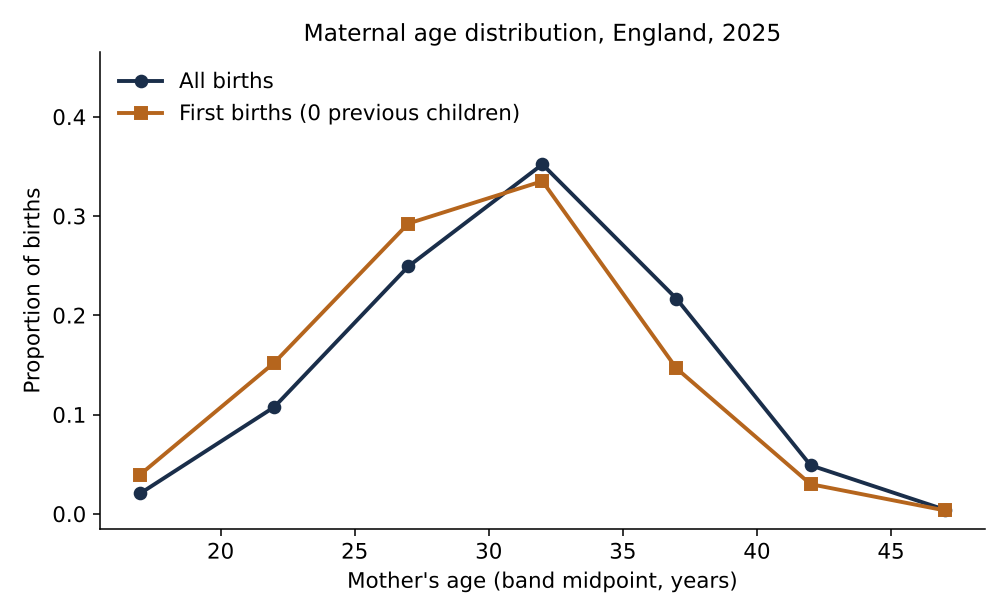
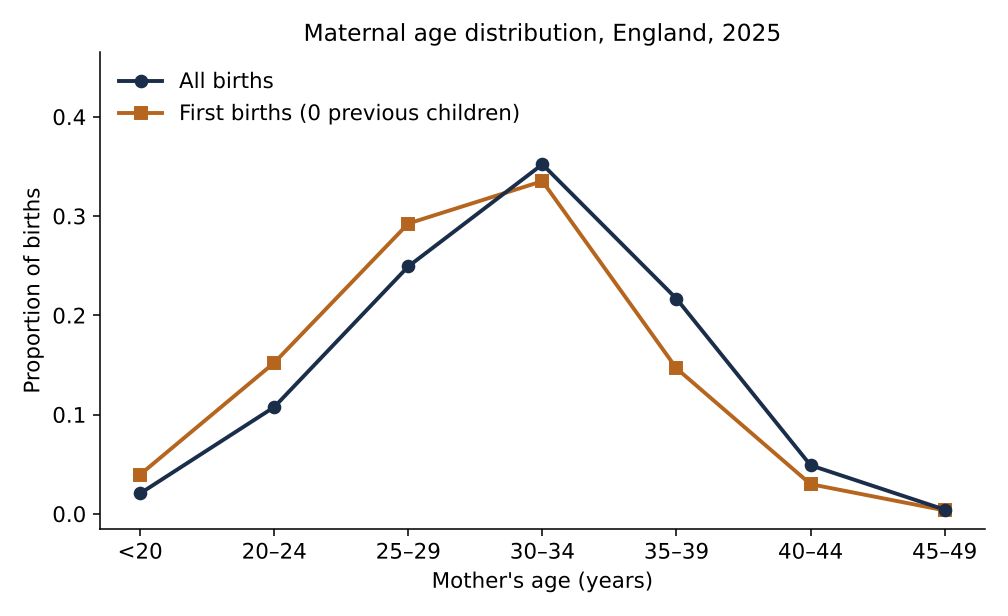
Figures: stacked panels, unknown stage, trough years, one colour key
Follow-up to an independent review of the redrawn figures:
- Figs 6, 8 (figF, figH): replace second y-axes with stacked panels; with
  two axes the apparent tracking (Fig 6) and crossing (Fig 8) depended only
  on how each axis was scaled.
- Fig 4 (figD): add the 1,366 endometrial cancers with stage missing or
  unstageable; panels share one y-axis.
- Fig 2 (figB): the published minimum (23.7) is shared by 1969-1971; mark all
  three years. results_all.csv now reports "First-birth SMA trough years".
- Fig 5 (figE): exact band midpoints (17.5 for 15-19); births curve starts at
  the under-20 band (no separate under-15 group); lower panel no longer clips
  markers at zero; coefficient shown as 0.048.
- Fig 3 (figA): label the age bands; all-births markers drawn on top.
- Figs 7, 9 (figG, figI): count axes start at zero.
- One colour key throughout: green = uterine cancer, navy = all births,
  orange = first births, grey = secondary or unknown.

Claude-Session: https://claude.ai/code/session_01PWS6UPa18NfWCPYvZGxfs7

diff --git a/convergence_analysis.py b/convergence_analysis.py
@@ -25,8 +25,9 @@
 # cancers diagnosed under 40). Adds annual-percentage-change (APC) trend estimates, an
 # under-40 series, a decomposition of the overlap coefficient, projected births at 40+, and a
 # C54-only sensitivity analysis. All figures are redrawn: no text over data, overlap shading
-# that covers the whole area under both curves, and the 2012–2014 gap in the rolling incidence
-# series shown rather than bridged. See CHANGELOG.md.
+# that covers the whole area under both curves, the 2012–2014 gap in the rolling incidence
+# series shown rather than bridged, stacked panels instead of second y-axes, the unknown-stage
+# group shown, and one colour key throughout. See CHANGELOG.md.
 
 # %%
 # ============================ CONFIG & IMPORTS ============================
@@ -266,7 +267,10 @@ results["England 2025 first-births % aged 30+"]     = round(100*p_first[['30 to 
 results["First-birth SMA 1975 (E&W)"]               = round(float(sma_first[t11ew["Year"]==1975].iloc[0]), 2)
 results["First-birth SMA 2025 (E&W)"]               = round(float(sma_first[t11ew["Year"]==2025].iloc[0]), 2)
 results["All-births SMA 2025 (E&W)"]                = round(float(sma_all[t11ew["Year"]==2025].iloc[0]), 2)
-results["First-birth SMA trough year (E&W)"]        = int(t11ew.loc[sma_first.idxmin(), "Year"])
+# The published SMA (one decimal place) reaches its minimum in more than one year, so report the run.
+_trough_years = t11ew.loc[np.isclose(sma_first, sma_first.min()), "Year"].astype(int)
+results["First-birth SMA trough years (E&W)"]       = (f"{_trough_years.min()}-{_trough_years.max()}"
+                                                      if len(_trough_years) > 1 else str(_trough_years.min()))
 results["First-birth SMA trough value (E&W)"]       = round(float(sma_first.min()), 2)
 results["First-birth SMA England vs E&W gap, 2025 (yrs)"] = round(gap, 3)
 
@@ -507,26 +511,36 @@ results["Projected overlap change 2023->2047 (cancer fixed, %)"] = round(100*(at
 # ## 7. Figures
 
 # %%
-# Fig A — maternal age distribution, England 2025
-from matplotlib.ticker import FuncFormatter
+# Colour key used in every figure: green = uterine cancer; navy = all births; orange = first
+# births; grey = a secondary series or a missing/unknown category. Two-quantity figures use stacked
+# panels rather than a second y-axis, so neither series' scale is chosen to match the other.
+from matplotlib.ticker import FuncFormatter, MultipleLocator
 from matplotlib.patches import Rectangle
+thousands = FuncFormatter(lambda v, _: f"{v:,.0f}")
+GREEN_U50, GREEN_U45, GREEN_U40 = "#7cbfac", ACC2, "#0f3d33"   # nested age limits, light to dark
+NAVY_LIGHT = "#7a8fae"
+
+# Fig A — maternal age distribution, England 2025, by five-year band of mother's age
 fig, ax = plt.subplots(figsize=(7.2,4.4))
-xr = [MIDHB[b] for b in REPRO_U50]
-ax.plot(xr, [p_all.get(b,0) for b in REPRO_U50], "-o", color=INK, lw=2, label="All births")
-ax.plot(xr, [p_first.get(b,0) for b in REPRO_U50], "-s", color=ACC, lw=2, label="First births (0 previous children)")
-ax.set_xlabel("Mother's age (band midpoint, years)"); ax.set_ylabel("Proportion of births")
+_pos = np.arange(len(REPRO_U50))
+_lf, = ax.plot(_pos, [p_first.get(b,0) for b in REPRO_U50], "-s", color=ACC, lw=2, label="First births (0 previous children)")
+_la, = ax.plot(_pos, [p_all.get(b,0) for b in REPRO_U50], "-o", color=INK, lw=2, label="All births")  # on top: equal at 45–49
+ax.set_xticks(_pos, ["<20" if b == "15 to 19" else b.replace(" to ", "–") for b in REPRO_U50])
+ax.set_xlabel("Mother's age (years)"); ax.set_ylabel("Proportion of births")
 ax.set_ylim(bottom=-0.015, top=1.32*max(max(p_all.get(b,0) for b in REPRO_U50), max(p_first.get(b,0) for b in REPRO_U50)))  # legend headroom
-ax.set_title("Maternal age distribution, England, 2025"); ax.legend(frameon=False, loc="upper left")
+ax.set_title("Maternal age distribution, England, 2025"); ax.legend([_la, _lf], [_la.get_label(), _lf.get_label()], frameon=False, loc="upper left")
 fig.tight_layout(); fig.savefig(OUT_DIR/"figA_maternal_age_distribution_2025.png"); plt.close(fig)
 
-# Fig B — first-birth SMA trend (E&W); the trough label sits below the point, clear of the curve and axis
+# Fig B — first-birth SMA trend (E&W). The published series is rounded to 0.1 year and its
+# minimum is shared by consecutive years; all are marked and the label gives the run of years.
 fig, ax = plt.subplots(figsize=(7.2,4.4))
 ax.plot(t11ew["Year"], sma_first, color=ACC, lw=2, label="Mean age at first birth")
-ax.plot(t11ew["Year"], sma_all, color=GREY, lw=1.5, ls="--", label="Mean age, all births")
-ty=int(t11ew.loc[sma_first.idxmin(),"Year"]); tv=float(sma_first.min())
-ax.scatter([ty],[tv], color=INK, zorder=5)
-ax.set_ylim(bottom=tv - 1.1)
-ax.annotate(f"trough {ty}: {tv:.1f} years", (ty, tv), textcoords="offset points", xytext=(0, -9),
+ax.plot(t11ew["Year"], sma_all, color=INK, lw=1.5, ls="--", label="Mean age, all births")
+_tv = float(sma_first.min()); _ty = t11ew.loc[np.isclose(sma_first, _tv), "Year"].astype(int).tolist()
+ax.scatter(_ty, [_tv]*len(_ty), color=INK, s=14, zorder=5)
+ax.set_ylim(bottom=_tv - 1.1)
+_run = f"{_ty[0]}–{str(_ty[-1])[2:]}" if len(_ty) > 1 else f"{_ty[0]}"
+ax.annotate(f"trough {_run}: {_tv:.1f} years", (float(np.mean(_ty)), _tv), textcoords="offset points", xytext=(0, -9),
             ha="center", va="top", fontsize=9, color=INK)
 ax.set_xlabel("Year"); ax.set_ylabel("Standardised mean age of mother (years)")
 ax.set_title("Mean age at first birth, England & Wales, 1938–2025"); ax.legend(frameon=False, loc="upper left")
@@ -547,83 +561,85 @@ ax.set_xlabel("Year (midpoint of 3-year rolling window)"); ax.set_ylabel("Age-st
 ax.set_title("Uterine cancer (C54–C55) incidence, England, 2001–2023\n(3-year rolling rates)")
 fig.tight_layout(); fig.savefig(OUT_DIR/"figC_uterine_incidence_trend.png"); plt.close(fig)
 
-# Fig D — endometrial composition + stage
-fig, (a1,a2) = plt.subplots(1,2, figsize=(9,4.2))
-a1.bar(["Endometrial","Non-endometrial"], [endo,nonendo], color=[INK,GREY])
+# Fig D — endometrial composition + stage. Shared y-axis, so the stage bars (including the cases
+# with stage missing or unstageable) add up to the endometrial bar.
+_stage_unknown = endo - sum(endo_stage.values())
+assert int(_stage_unknown) == results["2023 endometrial stage missing/unstageable"]
+fig, (a1,a2) = plt.subplots(1,2, figsize=(9,4.2), sharey=True)
+a1.bar(["Endometrial","Non-endometrial"], [endo,nonendo], color=[ACC2,GREY])
 a1.set_title(f"Uterine cancer (C54–C55) by NDRS group, 2023\n(endometrial = {100*endo/all_u:.0f}% of {int(all_u):,})")
-a1.set_ylabel("Registrations"); a1.yaxis.set_major_formatter(FuncFormatter(lambda v, _: f"{v:,.0f}"))
-a2.bar(["1","2","3","4"], [endo_stage[s] for s in ["1","2","3","4"]], color=ACC)
-a2.set_title("Endometrial cancer by stage, 2023"); a2.set_xlabel("Stage at diagnosis (TNM 8 / FIGO 2009)"); a2.set_ylabel("Registrations")
-a2.yaxis.set_major_formatter(FuncFormatter(lambda v, _: f"{v:,.0f}"))
+a1.set_xlabel("NDRS group"); a1.set_ylabel("Registrations"); a1.yaxis.set_major_formatter(thousands)
+a2.bar(["1","2","3","4","Unknown"], [endo_stage[s] for s in ["1","2","3","4"]] + [_stage_unknown], color=[ACC2]*4 + [GREY])
+a2.set_title("Endometrial cancer by stage, 2023"); a2.set_xlabel("Stage at diagnosis (TNM 8 / FIGO 2009)")
 fig.tight_layout(); fig.savefig(OUT_DIR/"figD_endometrial_type_stage_2023.png"); plt.close(fig)
 
-# Fig E — headline overlap. The shaded area is the region under BOTH plotted curves, i.e. the
-# minimum of the two piecewise-linear curves evaluated on a fine grid (including the points where
-# they cross between band midpoints). The coefficient itself is computed on the five-year bands.
+# Fig E — headline overlap. Each curve joins the band proportions at the exact band midpoints
+# (ages are in completed years, so 15–19 is plotted at 17.5). The births series starts at 15–19,
+# which holds ONS "Under 20" (there is no separate under-15 group). The shaded area is the region
+# under BOTH curves: the minimum of the two piecewise-linear curves on a fine grid, including where
+# they cross between midpoints. The coefficient itself is computed on the five-year bands.
 # Lower panel: ages 20–55 enlarged, where the two distributions meet.
-fig, (ax, axz) = plt.subplots(2, 1, figsize=(8, 6.6), gridspec_kw={"height_ratios": [1.6, 1]})
-_x = np.array([MIDHB[b] for b in HB], float)
-_yc = np.array([pc_2023.get(b,0) for b in HB], float); _yb = np.array([p_first.get(b,0) for b in HB], float)
-_xd = np.linspace(_x.min(), _x.max(), 4001)
-_shared = np.minimum(np.interp(_xd, _x, _yc), np.interp(_xd, _x, _yb))
+fig, (ax, axz) = plt.subplots(2, 1, figsize=(8, 7.2), gridspec_kw={"height_ratios": [1.6, 1]})
+_xc = np.array([MIDHB[b] for b in HB], float) + 0.5
+_yc = np.array([pc_2023.get(b,0) for b in HB], float)
+_xb = np.array([MIDHB[b] for b in HB[1:]], float) + 0.5
+_yb = np.array([p_first.get(b,0) for b in HB[1:]], float)
+_xd = np.linspace(_xc.min(), _xc.max(), 4001)
+_shared = np.minimum(np.interp(_xd, _xc, _yc), np.interp(_xd, _xb, _yb, left=0.0, right=0.0))
 for a in (ax, axz):
-    a.fill_between(_xd, _shared, color=INK, alpha=0.35, lw=0, label=f"Overlap (coefficient = {OVL(pc_2023,p_first):.2f})")
-    a.plot(_x, _yc, "-o", color=ACC2, lw=2, label="Uterine cancer (C54–C55), age at diagnosis (England 2023)")
-    a.plot(_x, _yb, "-s", color=ACC, lw=2, label="First births, mother's age (England 2025)")
-ax.set_xlim(10, 95); ax.set_ylabel("Proportion within distribution")
-ax.add_patch(Rectangle((20, 0), 35, 0.05, fill=False, ls=":", lw=1, ec="#666"))
+    a.fill_between(_xd, _shared, color=INK, alpha=0.35, lw=0, label=f"Shared area (overlap coefficient = {OVL(pc_2023,p_first):.3f})")
+    a.plot(_xc, _yc, "-o", color=ACC2, lw=2, label="Uterine cancer (C54–C55), age at diagnosis (England 2023)")
+    a.plot(_xb, _yb, "-s", color=ACC, lw=2, label="First births, mother's age (England 2025)")
+    a.set_xlabel("Age (years)"); a.set_ylabel("Proportion within distribution"); a.tick_params(axis="y", pad=5)
+_zoom = (20, 55, -0.002, 0.05)                                   # x0, x1, y0, y1 of the lower panel
+ax.set_xlim(10, 95)
+ax.add_patch(Rectangle((_zoom[0], _zoom[2]), _zoom[1] - _zoom[0], _zoom[3] - _zoom[2], fill=False, ls=":", lw=1, ec="#666"))
 ax.set_title("Convergence of childbearing age and uterine cancer diagnosis age, England")
 _h, _l = ax.get_legend_handles_labels()
-ax.legend([_h[1], _h[2], _h[0]], [_l[1], _l[2], _l[0]], frameon=False, fontsize=8.5, loc="upper right")
-axz.set_xlim(20, 55); axz.set_ylim(0, 0.05)
-axz.set_xlabel("Age (years)"); axz.set_ylabel("Proportion")
+ax.legend([_h[1], _h[2], _h[0]], [_l[1], _l[2], _l[0]], frameon=False, fontsize=10, loc="upper right")
+axz.set_xlim(_zoom[0], _zoom[1]); axz.set_ylim(_zoom[2], _zoom[3])
 axz.set_title("Ages 20–55 enlarged (dotted box above)", fontsize=10, pad=12)
-fig.tight_layout(); fig.savefig(OUT_DIR/"figE_overlap_headline.png"); plt.close(fig)
+fig.align_ylabels(); fig.tight_layout(); fig.savefig(OUT_DIR/"figE_overlap_headline.png"); plt.close(fig)
 
-# Fig F — overlap trend + % under 50 (right axis), all three series in one legend
-fig, ax = plt.subplots(figsize=(7.6,4.4))
-_l1, = ax.plot(YEARS, ovl_all, "-o", color=INK, lw=2, label="Overlap with all births (E&W, each year)")
-_l2, = ax.plot(YEARS, ovl_firstfixed, "-^", color=GREY, lw=1.6, label="Overlap with first births (England 2025, held fixed)")
-ax.set_xlabel("Diagnosis year"); ax.set_ylabel("Overlap coefficient")
-ax2=ax.twinx(); ax2.spines["top"].set_visible(False); ax2.spines["right"].set_visible(True); ax2.spines["right"].set_color(ACC)
-_l3, = ax2.plot(YEARS, pct_u50, color=ACC, lw=1.6, ls=":", label="% of uterine cancers diagnosed under 50 (right axis)")
-ax2.set_ylabel("% of uterine cancers diagnosed under 50", color=ACC); ax2.tick_params(axis="y", colors=ACC)
+# Fig F — overlap trend (upper panel) and % of cancers diagnosed under 50 (lower panel)
+fig, (ax, ax2) = plt.subplots(2, 1, figsize=(7.6, 6.2), sharex=True, gridspec_kw={"height_ratios": [1.4, 1]})
+ax.plot(YEARS, ovl_all, "-o", color=INK, lw=2, label="Overlap with all births (E&W, each year)")
+ax.plot(YEARS, ovl_firstfixed, "-^", color=GREY, lw=1.6, label="Overlap with first births (England 2025, held fixed)")
 _lo = min(min(ovl_all), min(ovl_firstfixed)); _hi = max(max(ovl_all), max(ovl_firstfixed))
-ax.set_ylim(_lo - 0.05*(_hi-_lo), _hi + 0.55*(_hi-_lo))            # headroom for the legend
-ax2.set_ylim(min(pct_u50) - 0.05*(max(pct_u50)-min(pct_u50)), max(pct_u50) + 0.55*(max(pct_u50)-min(pct_u50)))
-ax.legend([_l1, _l2, _l3], [_l1.get_label(), _l2.get_label(), _l3.get_label()], frameon=False, fontsize=8.5, loc="upper left")
-ax.set_title("Trend in cancer–childbearing age overlap, England 2001–2023")
-fig.tight_layout(); fig.savefig(OUT_DIR/"figF_overlap_trend.png"); plt.close(fig)
+ax.set_ylim(_lo - 0.05*(_hi-_lo), _hi + 0.5*(_hi-_lo))             # headroom for the legend
+ax.set_ylabel("Overlap coefficient"); ax.legend(frameon=False, fontsize=10, loc="upper left")
+ax.set_title("Trend in cancer–childbearing age overlap, England, 2001–2023")
+ax2.plot(YEARS, pct_u50, "-o", color=ACC2, lw=2, ms=5)
+ax2.set_xlabel("Diagnosis year"); ax2.set_ylabel("% of uterine cancers\ndiagnosed under 50")
+fig.align_ylabels(); fig.tight_layout(); fig.savefig(OUT_DIR/"figF_overlap_trend.png"); plt.close(fig)
 
-# Fig G — reproductive-age counts
+# Fig G — reproductive-age counts (nested age limits: light to dark green)
 fig, ax = plt.subplots(figsize=(7.6,4.4))
-ax.plot(YEARS, cnt_u50, "-o", color=ACC2, lw=2, label="Diagnosed under 50")
-ax.plot(YEARS, cnt_u45, "-s", color=ACC, lw=2, label="Diagnosed under 45")
-ax.plot(YEARS, cnt_u40, "-^", color=INK, lw=2, label="Diagnosed under 40")
-ax.set_xlabel("Diagnosis year"); ax.set_ylabel("Annual registrations (England)")
-ax.set_title("Uterine cancer (C54–C55) in reproductive-age women, England 2001–2023")
+ax.plot(YEARS, cnt_u50, "-o", color=GREEN_U50, lw=2, label="Diagnosed under 50")
+ax.plot(YEARS, cnt_u45, "-s", color=GREEN_U45, lw=2, label="Diagnosed under 45")
+ax.plot(YEARS, cnt_u40, "-^", color=GREEN_U40, lw=2, label="Diagnosed under 40")
+ax.set_ylim(bottom=0); ax.set_xlabel("Diagnosis year"); ax.set_ylabel("Annual registrations (England)")
+ax.set_title("Uterine cancer (C54–C55) in reproductive-age women, England, 2001–2023")
 ax.legend(frameon=False, loc="upper left"); fig.tight_layout(); fig.savefig(OUT_DIR/"figG_reproductive_age_counts.png"); plt.close(fig)
 
-# Fig H — projection: mean maternal age (left axis) + share of births to women 35+ (right axis)
-fig, ax = plt.subplots(figsize=(7.6,4.4))
-_l1, = ax.plot(proj_years_int, proj_mage, color=ACC, lw=2, label="Mean age of mother (left axis)")
-ax.set_xlabel("Year"); ax.set_ylabel("Projected mean age of mother (years)", color=ACC)
-ax.tick_params(axis="y", colors=ACC); ax.spines["left"].set_color(ACC)
-ax2=ax.twinx(); ax2.spines["top"].set_visible(False); ax2.spines["right"].set_visible(True); ax2.spines["right"].set_color(INK)
-_l2, = ax2.plot(proj_years_int, [100*s for s in proj_share35], color=INK, lw=2, ls="--", label="% of births to women aged 35+ (right axis)")
-ax2.set_ylabel("Projected % of births to women aged 35+", color=INK); ax2.tick_params(axis="y", colors=INK)
-ax.legend([_l1, _l2], [_l1.get_label(), _l2.get_label()], frameon=False, loc="upper left")
+# Fig H — projection: mean maternal age (upper panel) and share of births to women 35+ (lower panel)
+fig, (ax, ax2) = plt.subplots(2, 1, figsize=(7.6, 5.8), sharex=True)
+ax.plot(proj_years_int, proj_mage, color=INK, lw=2)
+ax.set_ylabel("Mean age of\nmother (years)")
+ax.yaxis.set_major_locator(MultipleLocator(0.2)); ax.yaxis.set_major_formatter(FuncFormatter(lambda v, _: f"{v:.1f}"))
 ax.set_title("Projected continuation of delayed childbearing, England, to 2047\n(ONS 2022-based projections)")
-fig.tight_layout(); fig.savefig(OUT_DIR/"figH_projection_demographic.png"); plt.close(fig)
+ax2.plot(proj_years_int, [100*s for s in proj_share35], color=INK, lw=2)
+ax2.set_xlabel("Year"); ax2.set_ylabel("% of births to\nwomen aged 35+")
+fig.align_ylabels(); fig.tight_layout(); fig.savefig(OUT_DIR/"figH_projection_demographic.png"); plt.close(fig)
 
-# Fig I — projected number of births to women in the EC-risk window (35+, 40+)
+# Fig I — projected number of births to women aged 35+ and 40+ (y-axis from zero)
 fig, ax = plt.subplots(figsize=(7.6,4.4))
-ax.plot(proj_years_int, proj_cnt35, "-o", color=ACC2, lw=2, label="Births to women aged 35+")
-ax.plot(proj_years_int, proj_cnt40, "-s", color=ACC, lw=2, label="Births to women aged 40+")
-ax.yaxis.set_major_formatter(FuncFormatter(lambda v, _: f"{v:,.0f}"))
+ax.plot(proj_years_int, proj_cnt35, "-o", color=INK, lw=2, label="Births to women aged 35+")
+ax.plot(proj_years_int, proj_cnt40, "-s", color=NAVY_LIGHT, lw=2, label="Births to women aged 40+")
+ax.set_ylim(bottom=0); ax.yaxis.set_major_formatter(thousands)
 ax.set_xlabel("Year"); ax.set_ylabel("Projected annual births (England)")
-ax.set_title("Projected childbearing in the endometrial-cancer risk window, England")
-ax.legend(frameon=False, loc="upper left"); fig.tight_layout(); fig.savefig(OUT_DIR/"figI_projection_counts.png"); plt.close(fig)
+ax.set_title("Projected births to women aged 35+ and 40+, England, to 2047\n(ONS 2022-based projections)")
+ax.legend(frameon=False, loc="center left"); fig.tight_layout(); fig.savefig(OUT_DIR/"figI_projection_counts.png"); plt.close(fig)
 
 # %% [markdown]
 # ## 8. Save results table

diff --git a/CHANGELOG.md b/CHANGELOG.md
@@ -34,7 +34,9 @@
 
 ### Figures (all nine redrawn)
 Apart from the corrected trend series and the added under-40 series (above), the plotted data
-are unchanged.
+are unchanged. Colours now mean the same thing in every figure: green for uterine cancer, navy
+for all births, orange for first births, and grey for a secondary series or an unknown
+category.
 
 - **Overlap figure (Fig 5 / figE).** The shading now covers the whole area under both curves.
   In v1 the shading joined the band-wise minima at the band midpoints with straight lines;
@@ -42,6 +44,11 @@ are unchanged.
   of the shared area unshaded. The shading is now the pointwise minimum of the two plotted
   lines on a fine age grid. A lower panel enlarges ages 20–55, where the distributions meet.
   The coefficient (computed on the five-year bands) is unchanged.
+  - Points now sit at the true band midpoints: ages are in completed years, so 15–19 is plotted
+    at 17.5, not 17.
+  - The births curve now starts at the 15–19 band, which holds ONS "Under 20". v1 plotted a zero
+    for under-15 births; ONS publishes no separate group for those ages.
+  - The legend gives the coefficient to three decimals (0.048).
 - **Incidence trend (Fig 1 / figC).** The NDRS rolling-rate export has no rate for the
   2012–2014 window. v1 drew a straight line from 2011–2013 to 2013–2015, and the manuscript,
   README and methods called the series "gap-free". The line is now broken and the gap is
@@ -55,11 +62,21 @@ are unchanged.
 
   Legends now sit in fixed positions with clear space, rather than being placed
   automatically. The Fig 3 / figA legend moves above the curves.
-- **Two-axis figures (Figs 6 and 8 / figF and figH).** The right-hand axis is drawn and
-  coloured to match its series. The legend lists every series and says which axis it uses;
-  Fig 8 previously had no legend.
+- **Second y-axes replaced by stacked panels (Figs 6 and 8 / figF and figH).** On a two-axis
+  chart each series' scale is set independently. How closely the two lines tracked (Fig 6) or
+  where they crossed (Fig 8) was therefore a consequence of the scaling, not a finding. Each
+  quantity now has its own panel on a shared time axis.
+- **Stage (Fig 4 / figD).** v1 omitted the 1,366 endometrial cancers with stage missing (1,338)
+  or unstageable (28). They are now shown as an "Unknown" bar, and the two panels share one
+  y-axis, so the stage bars add up to the endometrial bar.
+- **Trough (Fig 2 / figB).** The published first-birth mean age (one decimal place) is 23.7 in
+  1969, 1970 and 1971. The figure marks all three years, and `results_all.csv` reports
+  "First-birth SMA trough years (E&W)" as 1969-1971; v1 reported only the first year.
+- **Counts (Figs 7 and 9 / figG and figI).** The y-axes start at zero, so the series can be
+  compared by height.
 - **Labels.** Registry data are labelled "uterine cancer (C54–C55)". figD states the staging
   system (TNM 8th edition / FIGO 2009). Count axes have thousands separators (figD, figI).
+  figA labels the age bands rather than plotting them at nominal midpoints.
 - Figure font pinned to DejaVu Sans (bundled with matplotlib, and the font the v1 figures
   were drawn in) so figures render identically across environments.
 

diff --git a/README.md b/README.md
@@ -12,8 +12,10 @@ Repository: https://github.com/comparativechrono/ec-childbearing-convergence-eng
 
 **Version 2 (October 2026).** Corrects an error in version 1's all-births trend comparator,
 adds trend statistics and sensitivity analyses, and redraws the figures (no text over data,
-full overlap shading, the 2012–2014 gap in the incidence series shown) — see `CHANGELOG.md`.
-All other v1 numbers are unchanged.
+full overlap shading, the 2012–2014 gap in the incidence series shown, stacked panels instead
+of second y-axes, consistent colours) — see `CHANGELOG.md`. All other v1 numbers are
+unchanged, except that the first-birth trough is reported as 1969–1971 (the published minimum
+of 23.7 is shared by three years).
 
 ## How to run
 
@@ -50,12 +52,14 @@ layout; the loader auto-detects ONS header rows.
 - **figB** mean age at first birth, England & Wales, 1938–2025
 - **figC** uterine cancer (C54–C55) incidence trend, England, 2001–2023 (3-year rolling rates;
   the 2012–2014 window has no published rate and is shown as a gap)
-- **figD** endometrial vs non-endometrial composition and stage (TNM 8 / FIGO 2009), 2023
+- **figD** endometrial vs non-endometrial composition and stage (TNM 8 / FIGO 2009, including
+  stage unknown), 2023
 - **figE** headline overlap: cancer diagnosis age vs first-birth age (shaded area under both
   curves; lower panel enlarges ages 20–55)
-- **figF** overlap trend 2001–2023 and % of uterine cancers diagnosed under 50
+- **figF** overlap trend 2001–2023 (upper panel) and % of uterine cancers diagnosed under 50
+  (lower panel)
 - **figG** reproductive-age registrations (under 40 / 45 / 50), 2001–2023
-- **figH** forward projection: mean maternal age and % births to women 35+, to 2047
+- **figH** forward projection: mean maternal age and % births to women 35+ (two panels), to 2047
 - **figI** forward projection: number of births to women 35+ / 40+, to 2047
 - **results_all.csv** every reported statistic
 
@@ -67,7 +71,7 @@ layout; the loader auto-detects ONS header rows.
   (2023); under 45 from 158 to 397; under 50 from 333 to 696.
 - 96.6% of uterine cancers are in the NDRS endometrial group; 61% of endometrial cancers are
   stage 1 (72% of those with known stage; TNM 8, equivalent to FIGO 2009).
-- Mean age at first birth (England & Wales) rose from a 1969 trough of 23.7 to 29.6 in 2025;
+- Mean age at first birth (England & Wales) rose from a trough of 23.7 in 1969–1971 to 29.6 in 2025;
   the England vs England-&-Wales gap is 0.0 years (validates the E&W longitudinal comparator).
 - Cancer–first-birth overlap coefficient ≈ 0.05 (2023). The all-births overlap rose by 41%
   (0.031 → 0.044) over 2001–2023, all of the net rise after 2016. In practice the coefficient

diff --git a/methods.md b/methods.md
@@ -30,7 +30,7 @@ For each comparison we computed the overlap coefficient between the age density 
 
 **Interpretation.** In every band below age 45 a smaller percentage of all cancers than of all births falls in the band, so the band-wise minimum is the cancer percentage; from 45 upwards the minimum is the birth percentage. The coefficient is therefore, in practice, the share of cancers diagnosed at ages 15–44 plus the small share of births at 45 and over. For 2023 against 2025 first births this is 0.0439 + 0.0041 = 0.048. This is why the coefficient responds to changes in the age at which cancers are diagnosed but hardly at all to further postponement of births.
 
-**Overlap figure.** Each distribution is drawn as its band proportions joined at the band midpoints. The shaded area is the region beneath both curves, that is, the pointwise minimum of the two lines evaluated on a fine age grid, so it includes the small triangle where the curves cross between band midpoints (near age 43). It illustrates the overlap; the coefficient itself is the band sum defined above. A lower panel enlarges ages 20–55, where the two distributions meet.
+**Overlap figure.** Each distribution is drawn as its band proportions joined at the band midpoints. Ages are in completed years, so the midpoint of 15–19 is 17.5. The births curve starts at the 15–19 band, which holds the ONS "Under 20" group, because there is no separate under-15 group. The shaded area is the region beneath both curves, that is, the pointwise minimum of the two lines evaluated on a fine age grid. It therefore includes the small triangle where the curves cross between the 40–44 and 45–49 midpoints. The shading illustrates the overlap; the coefficient itself is the band sum defined above. A lower panel enlarges ages 20–55, where the two distributions meet.
 
 ## Reproductive-age burden and pace of change
 
